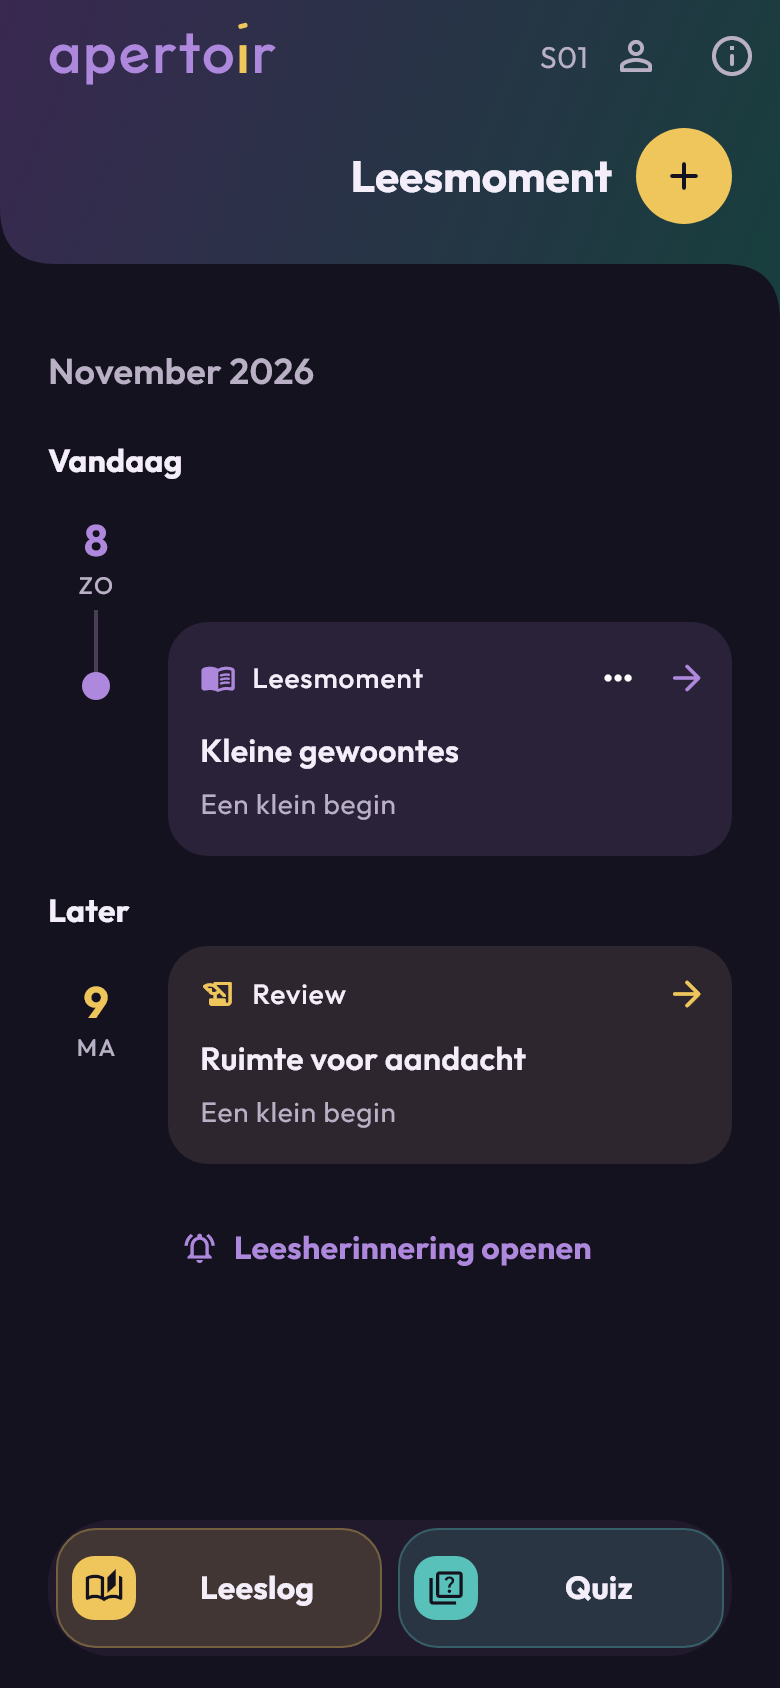
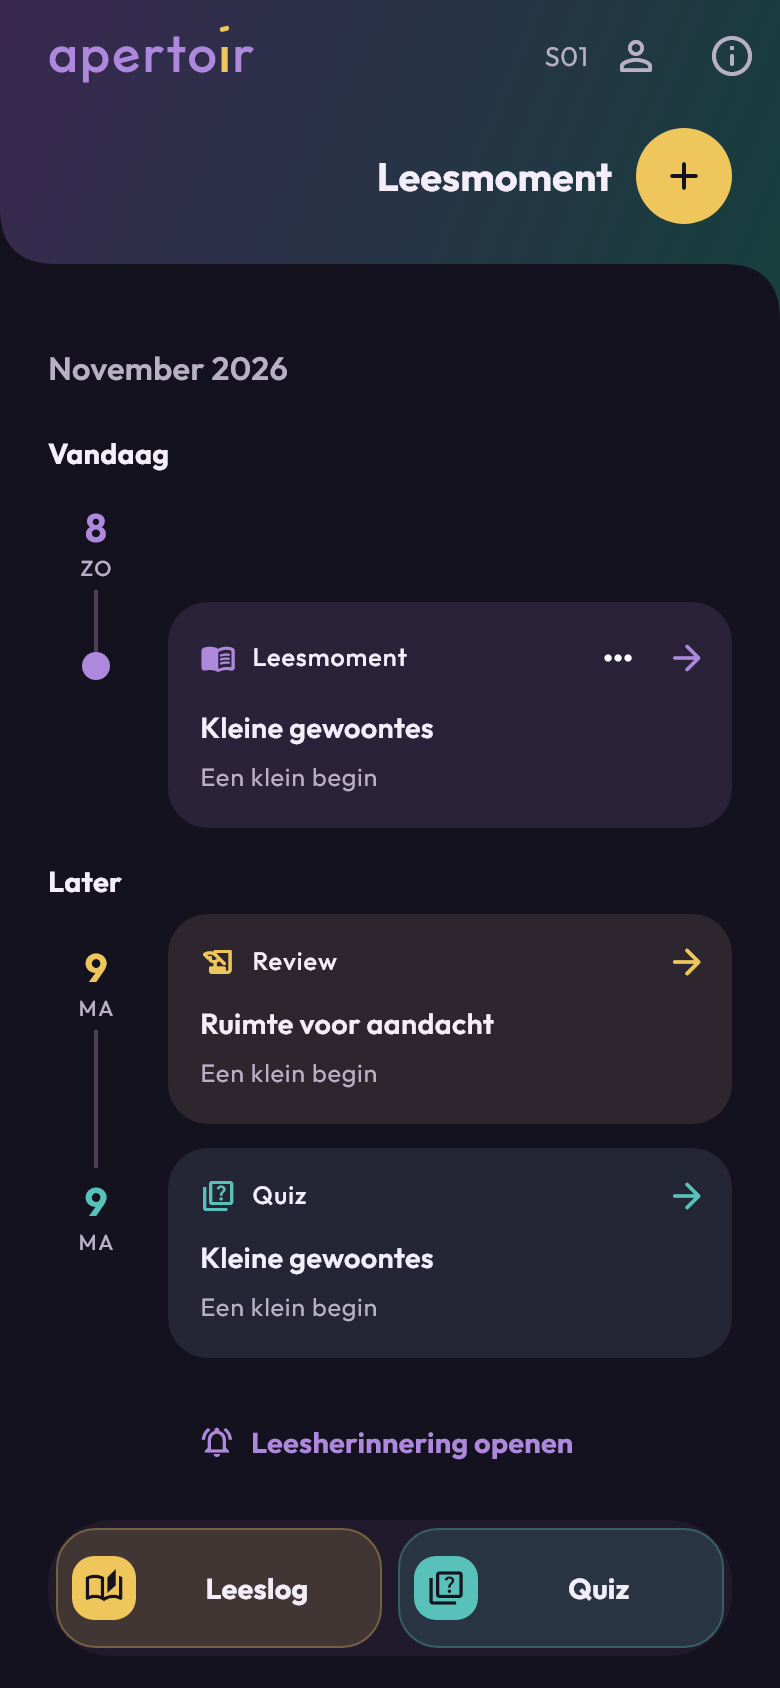
Show a scheduled quiz in the reading timeline screenshots

diff --git a/index.html b/index.html
@@ -40,8 +40,8 @@
       <div class="screen-gallery">
         <figure class="screen-card screen-card-leesritme">
           <figcaption><span class="step">01 · Jouw ritme</span><h3>Een moment voor jezelf.</h3><p>Je leesmomenten en reviews bij elkaar. Zo geef je lezen een plek in je dag.</p></figcaption>
-          <a class="screen-link" href="assets/screens/leesritme-light.png" data-screen-title="Een moment voor jezelf." aria-label="Vergroot scherm: Een moment voor jezelf.">
-            <span class="phone-frame"><img class="screen-light" src="assets/screens/leesritme-light.png" width="780" height="1688" loading="lazy" decoding="async" alt="Leesplanning met een leesmoment voor Kleine gewoontes en een review voor Ruimte voor aandacht."><img class="screen-dark" src="assets/screens/leesritme-dark.png" width="780" height="1688" loading="lazy" decoding="async" alt="Leesplanning met een leesmoment voor Kleine gewoontes en een review voor Ruimte voor aandacht."></span>
+          <a class="screen-link" href="assets/screens/leesritme-light.png?v=20261108-quizplan" data-screen-title="Een moment voor jezelf." aria-label="Vergroot scherm: Een moment voor jezelf.">
+            <span class="phone-frame"><img class="screen-light" src="assets/screens/leesritme-light.png?v=20261108-quizplan" width="780" height="1688" loading="lazy" decoding="async" alt="Leesplanning met een leesmoment en een ingeplande quiz voor Kleine gewoontes, en een review voor Ruimte voor aandacht."><img class="screen-dark" src="assets/screens/leesritme-dark.png?v=20261108-quizplan" width="780" height="1688" loading="lazy" decoding="async" alt="Leesplanning met een leesmoment en een ingeplande quiz voor Kleine gewoontes, en een review voor Ruimte voor aandacht."></span>
             <span class="screen-enlarge">Bekijk groter <span aria-hidden="true">↗</span></span>
           </a>
         </figure>
